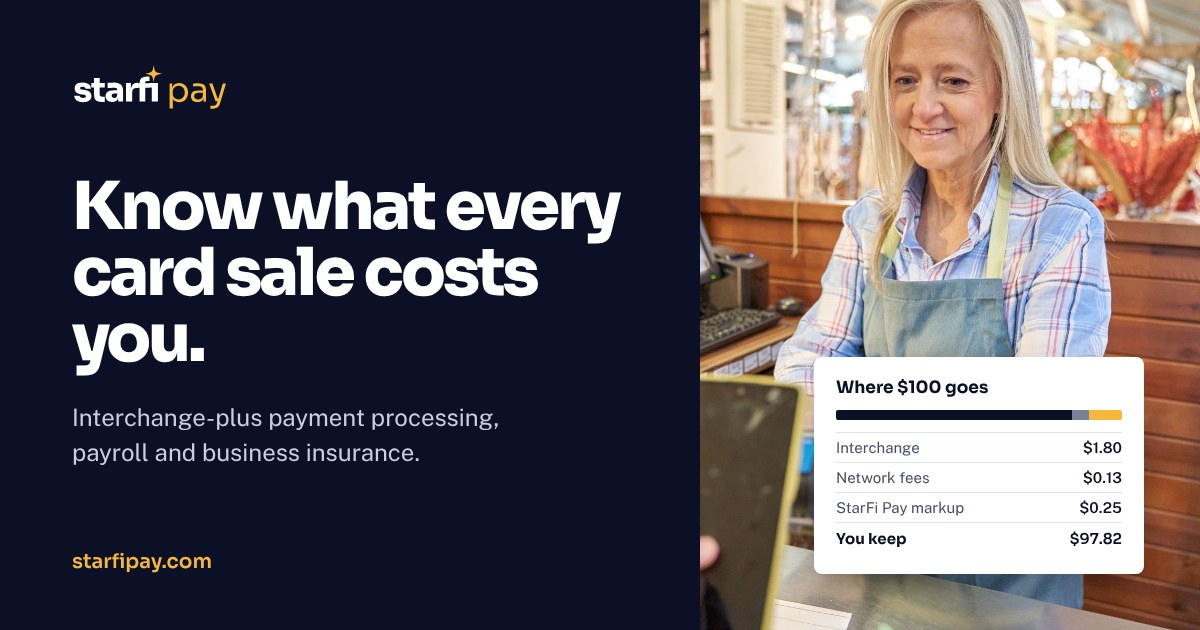
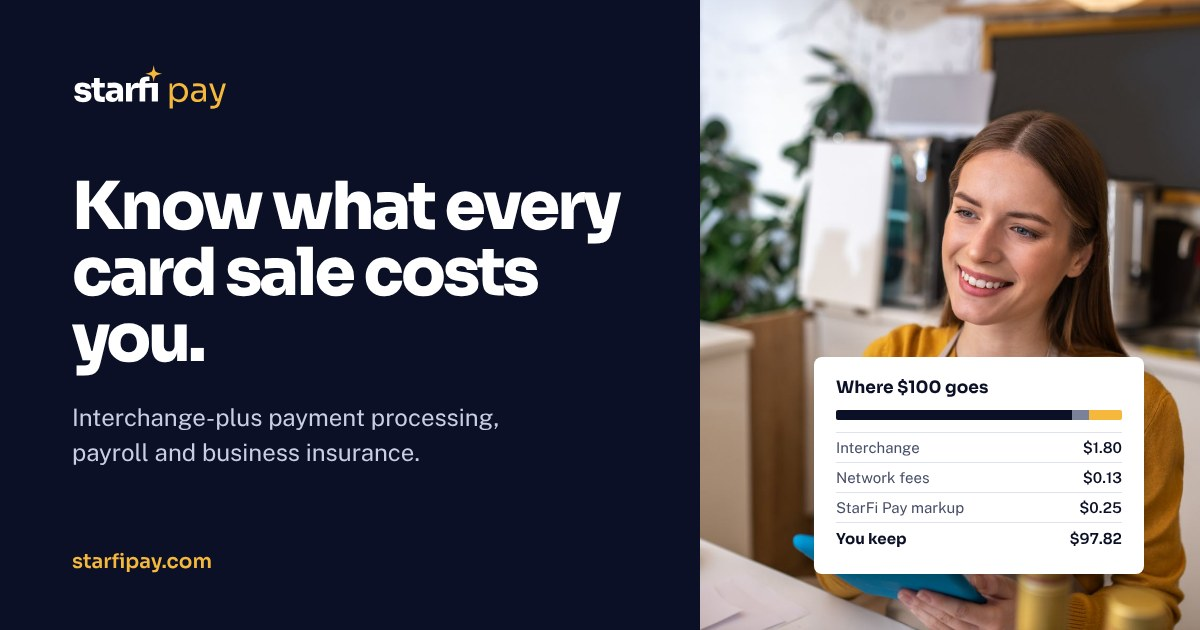
Swap home hero and share image to new licensed Envato photo
Hero now uses "Smiling Woman Using Tablet at Boutique Checkout"; fee card sits
lower so it no longer covers her face. Share image regenerated with the same photo.

Claude-Session: https://claude.ai/code/session_01CR8RsPga6uG5kRNj1tBdFz

diff --git a/pages/home.html b/pages/home.html
@@ -41,9 +41,9 @@
   .sf-home .owner-line img{width:44px;height:44px;border-radius:50%;object-fit:cover;flex-shrink:0}
   .sf-home .owner-line strong{color:var(--midnight);font-weight:600}
 
-  .sf-home .hero-visual{position:relative;padding-bottom:56px}
-  .sf-home .hero-photo{display:block;width:100%;height:auto;aspect-ratio:4/3.3;object-fit:cover;object-position:58% 50%;border-radius:6px;background:var(--mist)}
-  .sf-home .breakdown{position:absolute;left:-40px;bottom:0;width:min(400px,88%);background:var(--white);border-radius:6px;padding:22px 24px 20px;box-shadow:0 1px 0 var(--line),0 18px 40px -12px rgba(11,16,38,.28)}
+  .sf-home .hero-visual{position:relative;padding-bottom:250px}
+  .sf-home .hero-photo{display:block;width:100%;height:auto;aspect-ratio:3/2;object-fit:cover;object-position:50% 40%;border-radius:6px;background:var(--mist)}
+  .sf-home .breakdown{position:absolute;left:-48px;bottom:0;width:min(400px,88%);background:var(--white);border-radius:6px;padding:22px 24px 20px;box-shadow:0 1px 0 var(--line),0 18px 40px -12px rgba(11,16,38,.28)}
   .sf-home .breakdown-head{display:flex;justify-content:space-between;align-items:baseline;margin-bottom:14px}
   .sf-home .breakdown-head h3{font-size:16px}
   .sf-home .breakdown-head span{font-size:13px;color:var(--quiet)}
@@ -215,7 +215,7 @@
     </div>
 
     <div class="hero-visual">
-      <img class="hero-photo" src="https://mylaunchpartner.github.io/starfi-pay/assets/hero-merchant-checkout.jpg" alt="A shop owner takes a contactless phone payment at her counter" width="1800" height="1200">
+      <img class="hero-photo" src="https://mylaunchpartner.github.io/starfi-pay/assets/hero-merchant-tablet.jpg" alt="A smiling boutique owner rings up a sale on a tablet at her checkout counter" width="1800" height="1200">
       <figure class="breakdown" aria-label="Example fee breakdown on a 100 dollar card sale">
         <div class="breakdown-head"><h3>Where $100 goes</h3><span>Example card sale</span></div>
         <div class="bar" aria-hidden="true"><i class="seg-ic"></i><i class="seg-nw"></i><i class="seg-sf"></i></div>

diff --git a/README.md b/README.md
@@ -70,7 +70,7 @@ The site follows the logo kit: Midnight `#0B1026`, Cobalt `#2D5BFF` (buttons and
 ## Assets
 
 - `assets/starfi-pay-logo.png`: wordmark PNG (used in the schema)
-- `assets/hero-merchant-checkout.jpg`, `assets/merchant-counter-tap.jpg`: home page photos, licensed from Envato ("Friendly Saleswoman Processes Mobile Payment at Store" by stockscar; "Happy Woman Paying with Phone at Zero Waste Store" by DC_Studio). 
+- `assets/hero-merchant-tablet.jpg`, `assets/merchant-counter-tap.jpg`: home page photos, licensed from Envato ("Smiling Woman Using Tablet at Boutique Checkout" by Zinkevych_D; "Happy Woman Paying with Phone at Zero Waste Store" by DC_Studio). The earlier hero, "Friendly Saleswoman Processes Mobile Payment at Store" (stockscar), is also licensed but no longer used. 
 - `assets/ruo-vials-lab.jpg`, `assets/ruo-ecommerce-fulfillment.jpg`, `assets/ruo-researcher-pipette.jpg`: peptides page photos, licensed from Envato ("Vaccine Vial Preparation in Laboratory Setting" by erika8213; "Scanning Package Barcode in Brightly Lit Workplace" by amenic181; "Scientist Using Pipette to Fill Test Tubes" by oakdull406).
 - Full-size originals of all Envato photos are in Samantha's StarFi Pay folder under "Website photos (Envato)".
 - `assets/samantha-martinez-starfi-pay.jpg`: owner headshot (home, about, author and blog pages). Pages show "SM" initials if it fails to load.
